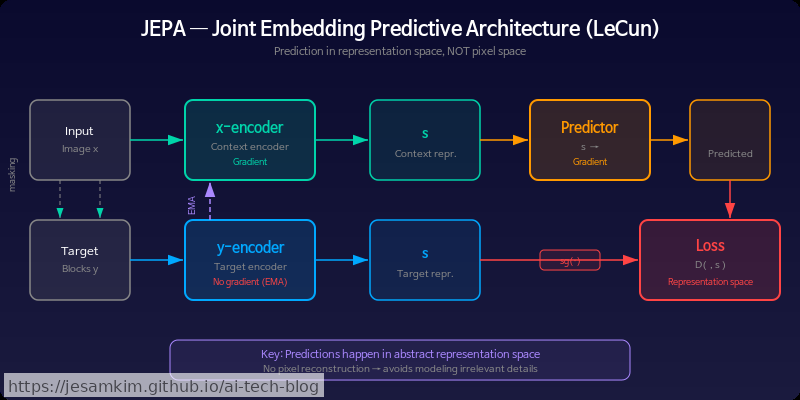
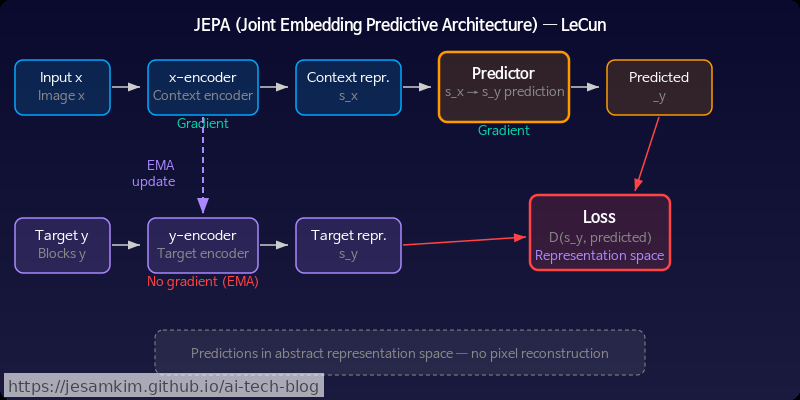
🔧 Fix 3 diagram overlaps + add SVG validation + fix extract_diagram_blocks for svg

diff --git a/scripts/generate_diagram.py b/scripts/generate_diagram.py
@@ -10,6 +10,7 @@ from datetime import datetime
 from pathlib import Path
 
 import yaml
+from xml.etree import ElementTree as ET
 
 BASE_DIR = Path(__file__).resolve().parent.parent
 SCRIPTS_DIR = BASE_DIR / "scripts"
@@ -74,6 +75,53 @@ def load_config() -> dict:
         return yaml.safe_load(f)
 
 
+
+
+def validate_svg(svg_text: str) -> list:
+    """SVG 품질 검증. 이슈 리스트 반환."""
+    issues = []
+    try:
+        root = ET.fromstring(svg_text.encode("utf-8"))
+    except ET.ParseError as e:
+        return [f"XML parse error: {e}"]
+
+    vb = root.get("viewBox", "0 0 800 400")
+    parts = vb.split()
+    vb_w, vb_h = float(parts[2]), float(parts[3])
+
+    # 텍스트 크기 검사 (최소 11px)
+    for text_el in root.iter("{http://www.w3.org/2000/svg}text"):
+        fs_str = text_el.get("font-size", "")
+        style = text_el.get("style", "")
+        fs = 0
+        if fs_str:
+            m = re.search(r"[\d.]+", fs_str)
+            if m: fs = float(m.group())
+        if not fs and "font-size" in style:
+            m = re.search(r"font-size:\s*([\d.]+)", style)
+            if m: fs = float(m.group(1))
+        if fs and fs < 11:
+            inner = (text_el.text or "")[:30]
+            issues.append(f"SMALL_TEXT: font-size={fs}")
+
+    # 요소 경계 검사
+    for rect_el in root.iter("{http://www.w3.org/2000/svg}rect"):
+        x = float(rect_el.get("x", "0"))
+        y = float(rect_el.get("y", "0"))
+        w = float(rect_el.get("width", "0"))
+        h = float(rect_el.get("height", "0"))
+        if x + w > vb_w + 10 or y + h > vb_h + 10 or x < -10 or y < -10:
+            issues.append(f"OUT_OF_BOUNDS: rect at ({x},{y})")
+
+    for text_el in root.iter("{http://www.w3.org/2000/svg}text"):
+        x = float(text_el.get("x", "0"))
+        y = float(text_el.get("y", "0"))
+        if x > vb_w + 20 or y > vb_h + 20 or x < -20 or y < -20:
+            inner = (text_el.text or "")[:30]
+            issues.append(f"OUT_OF_BOUNDS: text at ({x},{y})")
+
+    return issues
+
 def _svg_to_png(svg_text: str, output_name: str, date_str: str, config: dict, slug: str) -> str:
     """SVG 텍스트 → PNG 변환"""
     if config is None:
@@ -92,6 +140,11 @@ def _svg_to_png(svg_text: str, output_name: str, date_str: str, config: dict, sl
     # & → &amp; (이미 &amp; 등인 경우 제외)
     svg_text = _re.sub(r"&(?!amp;|lt;|gt;|quot;|apos;|#)", "&amp;", svg_text)
     svg_text = svg_text.replace("auto-start-auto", "auto")  # cairosvg 호환
+
+    # SVG 품질 검증
+    svg_issues = validate_svg(svg_text)
+    if svg_issues:
+        logger.warning("SVG 검증 이슈: %s", svg_issues)
 
     try:
         import cairosvg
